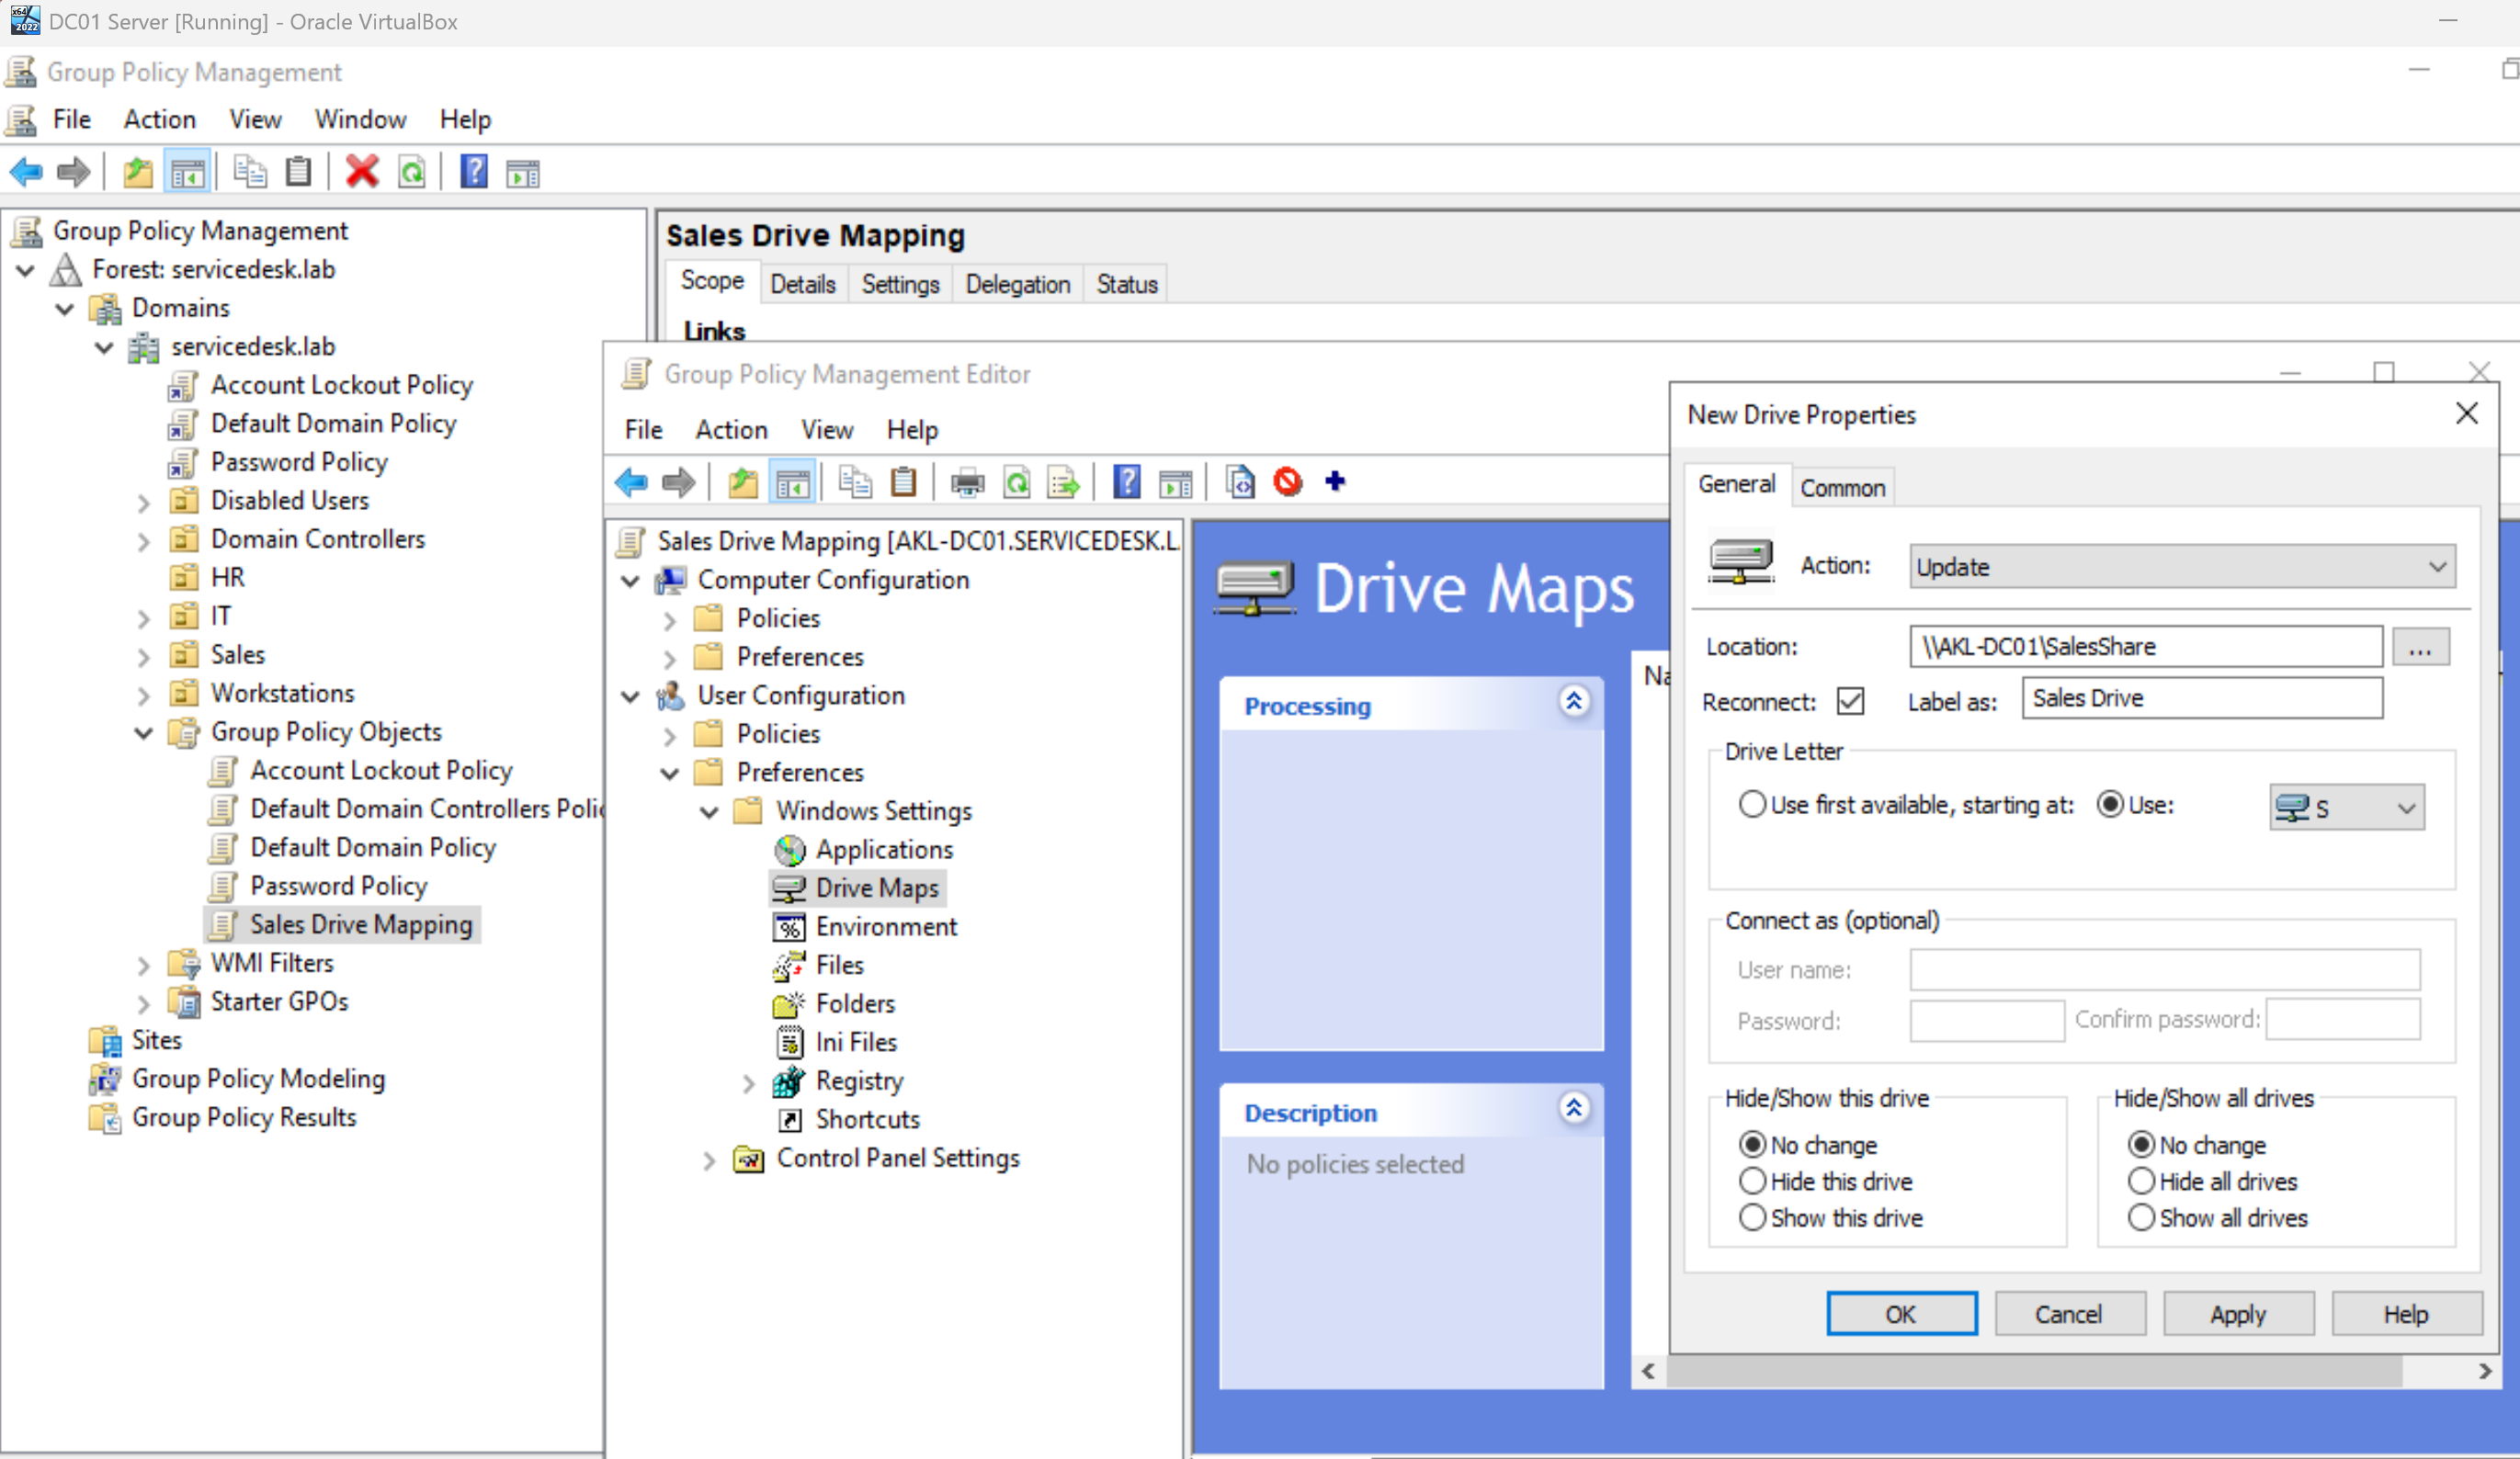
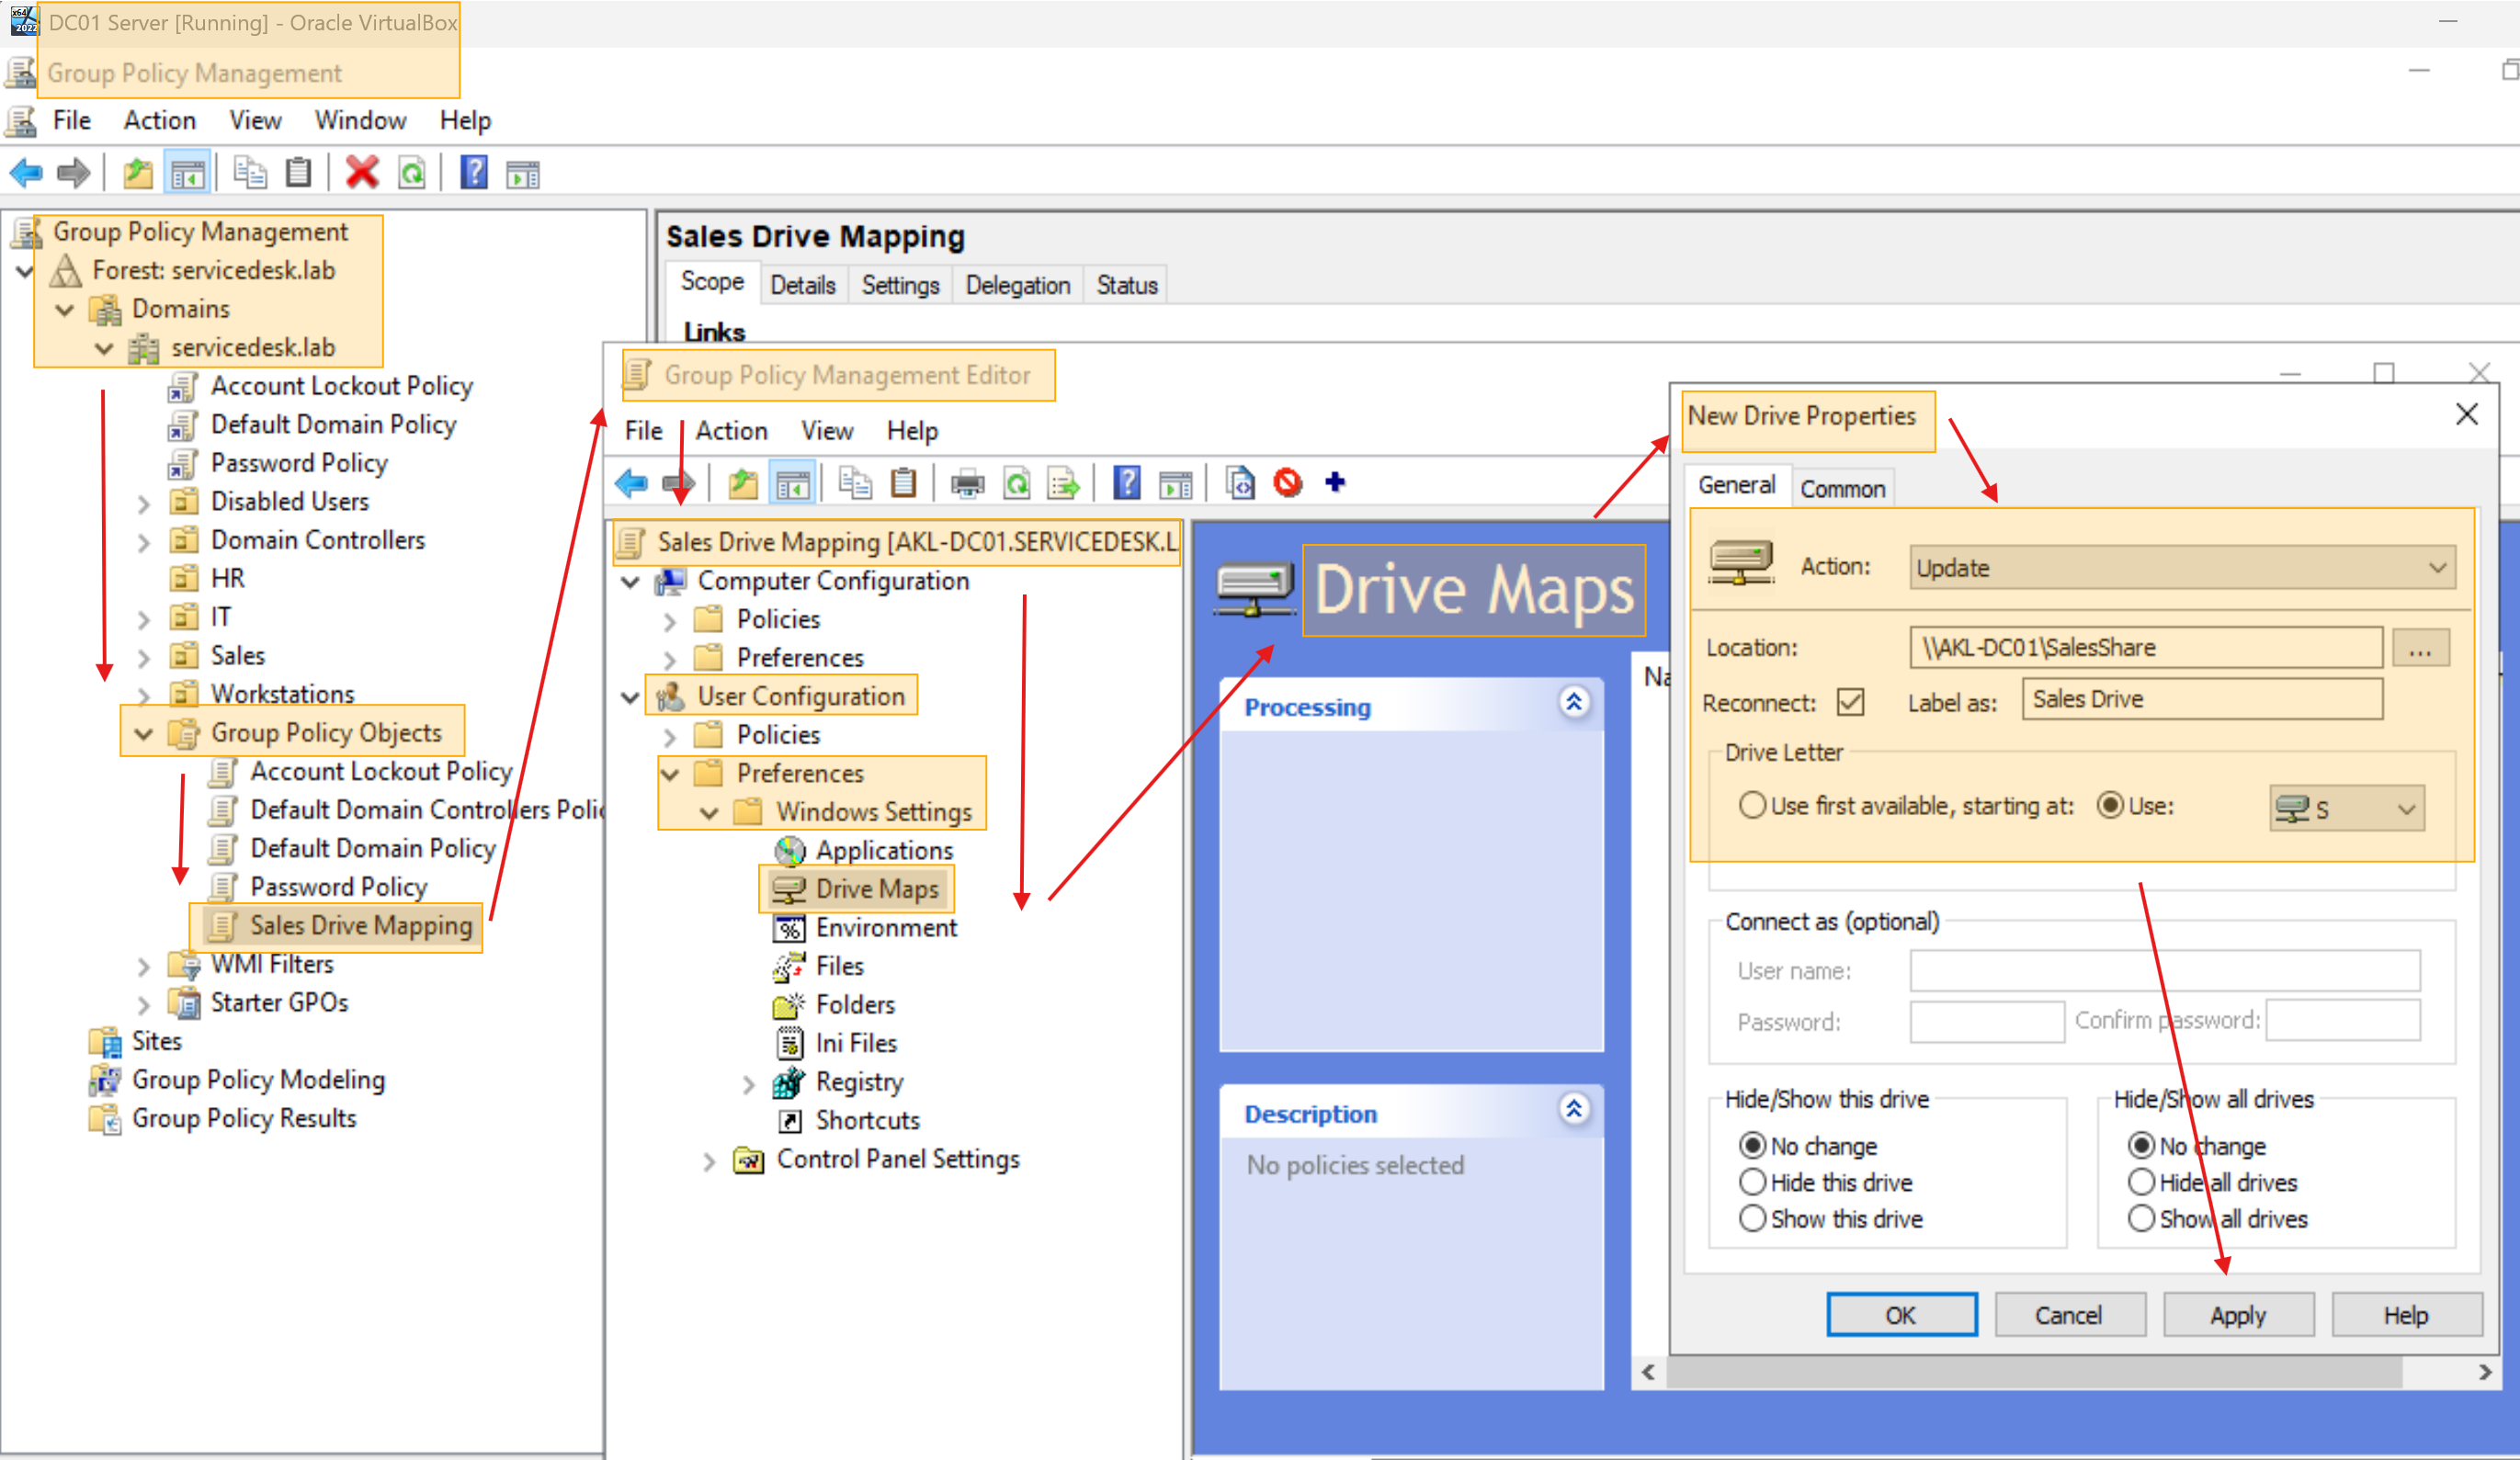
Policy update plus evidence.

diff --git a/docs/07-group-policy.md b/docs/07-group-policy.md
@@ -38,7 +38,7 @@ Set-GPRegistryValue -Name "Password Policy" -Key "HKLM\Software\Microsoft\Window
 Set-GPRegistryValue -Name "Password Policy" -Key "HKLM\Software\Microsoft\Windows\CurrentVersion\Policies\System" -ValueName "PasswordComplexity" -Type DWord -Value 1
 New-GPLink -Name "Password Policy" -Target "DC=servicedesk,DC=lab"
 ```
-If you are using GUI instead, here are the steps to follow. GUI provides a more visual/ granular way of understanding how to implement these policies without making mistakes.
+**NOTE:** If you are using GUI instead, here are the steps to follow. GUI provides a more visual/ granular way of understanding how to implement these policies without making mistakes.
 
 ![Creating a password policy](../screenshots/24-create-password-policy-GPO1.png)
 *Creating a password policy*
@@ -46,4 +46,78 @@ If you are using GUI instead, here are the steps to follow. GUI provides a more 
 ![Setting a password policy](../screenshots/24-create-password-policy-GPO2.png)
 *Settings in the password policy*
 
+
+![Link password policy to domain GPO](../screenshots/25-link-password-policy-to-domain-GPO.png)
+*After setting the password policy, you have to link it to the domain GPO. Same step for the policies below.*
+
 ---
+
+## GPO 2: Account Lockout Policy
+This policy locks a user account after too many wrong password attempts. It stops attackers from
+guessing passwords endlessly (brute‑force attacks). After 15 minutes the account unlocks automatically,
+so the service desk doesn't have to unlock it manually for every genuine mistake.
+
+### Settings
+
+| Setting | Value | Reason |
+|---|---|---|
+| Account lockout threshold | 5 invalid logon attempts | After 5 wrong passwords the account is locked. This is enough tries for a real user who forgot their password, but too few for an attacker. |
+| Account lockout duration | 15 minutes | The account stays locked for 15 minutes, then unlocks itself. The user only has to wait, not call the help desk. |
+| Reset account lockout counter after | 15 minutes | If the user waits 15 minutes, the failed‑attempt counter goes back to zero. |
+
+### Creation and linking
+
+```powershell
+New-GPO -Name "Account Lockout Policy"
+Set-GPRegistryValue -Name "Account Lockout Policy" -Key "HKLM\Software\Microsoft\Windows\CurrentVersion\Policies\System" -ValueName "LockoutDuration" -Type DWord -Value 15
+Set-GPRegistryValue -Name "Account Lockout Policy" -Key "HKLM\Software\Microsoft\Windows\CurrentVersion\Policies\System" -ValueName "LockoutBadCount" -Type DWord -Value 5
+Set-GPRegistryValue -Name "Account Lockout Policy" -Key "HKLM\Software\Microsoft\Windows\CurrentVersion\Policies\System" -ValueName "ResetLockoutCount" -Type DWord -Value 15
+New-GPLink -Name "Account Lockout Policy" -Target "DC=servicedesk,DC=lab"
+```
+
+**NOTE:** If you are using GUI instead, here are the steps to follow. GUI provides a more visual/ granular way of understanding how to implement these policies without making mistakes.
+
+![Creating an account lockout policy](../screenshots/26-create-account-lockout-policy-GPO.png)
+*Creating an Account Lockout Policy*
+
+![Linking the Account Lockout Policy into the Domain GPO](../screenshots/27-link-account-policy-to-domain.png)
+*Linking the Account Lockout Policy into the Domain GPO*
+
+---
+
+## GPO3: Sales Drive Mapping
+This GPO automatically maps the **S:** drive to the `\\AKL-DC01\SalesShare` shared folder for
+every user in the **Sales** department. Users don't need to know the network path – the drive just
+appears when they log in.
+
+### Real scenario
+In a real company, each department usually has a shared folder where they store team files,
+reports, and documents. Instead of emailing files back and forth or using USB drives, everyone
+saves to the same network location.
+
+By mapping it to a drive letter (S: for Sales), we make it feel like a local folder on their
+computer. The user just opens File Explorer, clicks the S: drive, and their team's files are there.
+
+Later in this lab, we will use this same shared folder for **help‑desk ticket simulations**:
+- **Ticket 006 – Shared Folder Access:** We will test that Sales users can access the folder,
+  but HR and IT users cannot. This proves the permissions are working correctly.
+- **NTFS permissions practice:** We will modify permissions on subfolders to grant or deny
+  access to specific groups, which is one of the most common requests a service desk analyst
+  handles ("I can't open this folder", "Please give the new starter access to the team drive").
+
+Only Sales users need the Sales share. HR and IT users won't see the drive, which keeps the
+environment tidy and secure. If an HR user logs in, the S: drive simply doesn't exist for them.
+
+### Prerequisite – Create the shared folder
+
+```powershell
+New-Item -Path "C:\Shares\Sales" -ItemType Directory
+New-SmbShare -Name "SalesShare" -Path "C:\Shares\Sales" -FullAccess "SERVICEDESK\Sales_Group"
+Get-SmbShare -Name "SalesShare"
+```
+
+![Creating a shared folder for Sales department: Disk S:/](../screenshots/29-creating-sales-shared-folder.png)
+*Creating a shared folder for Sales department: Disk S:/*
+
+---
+